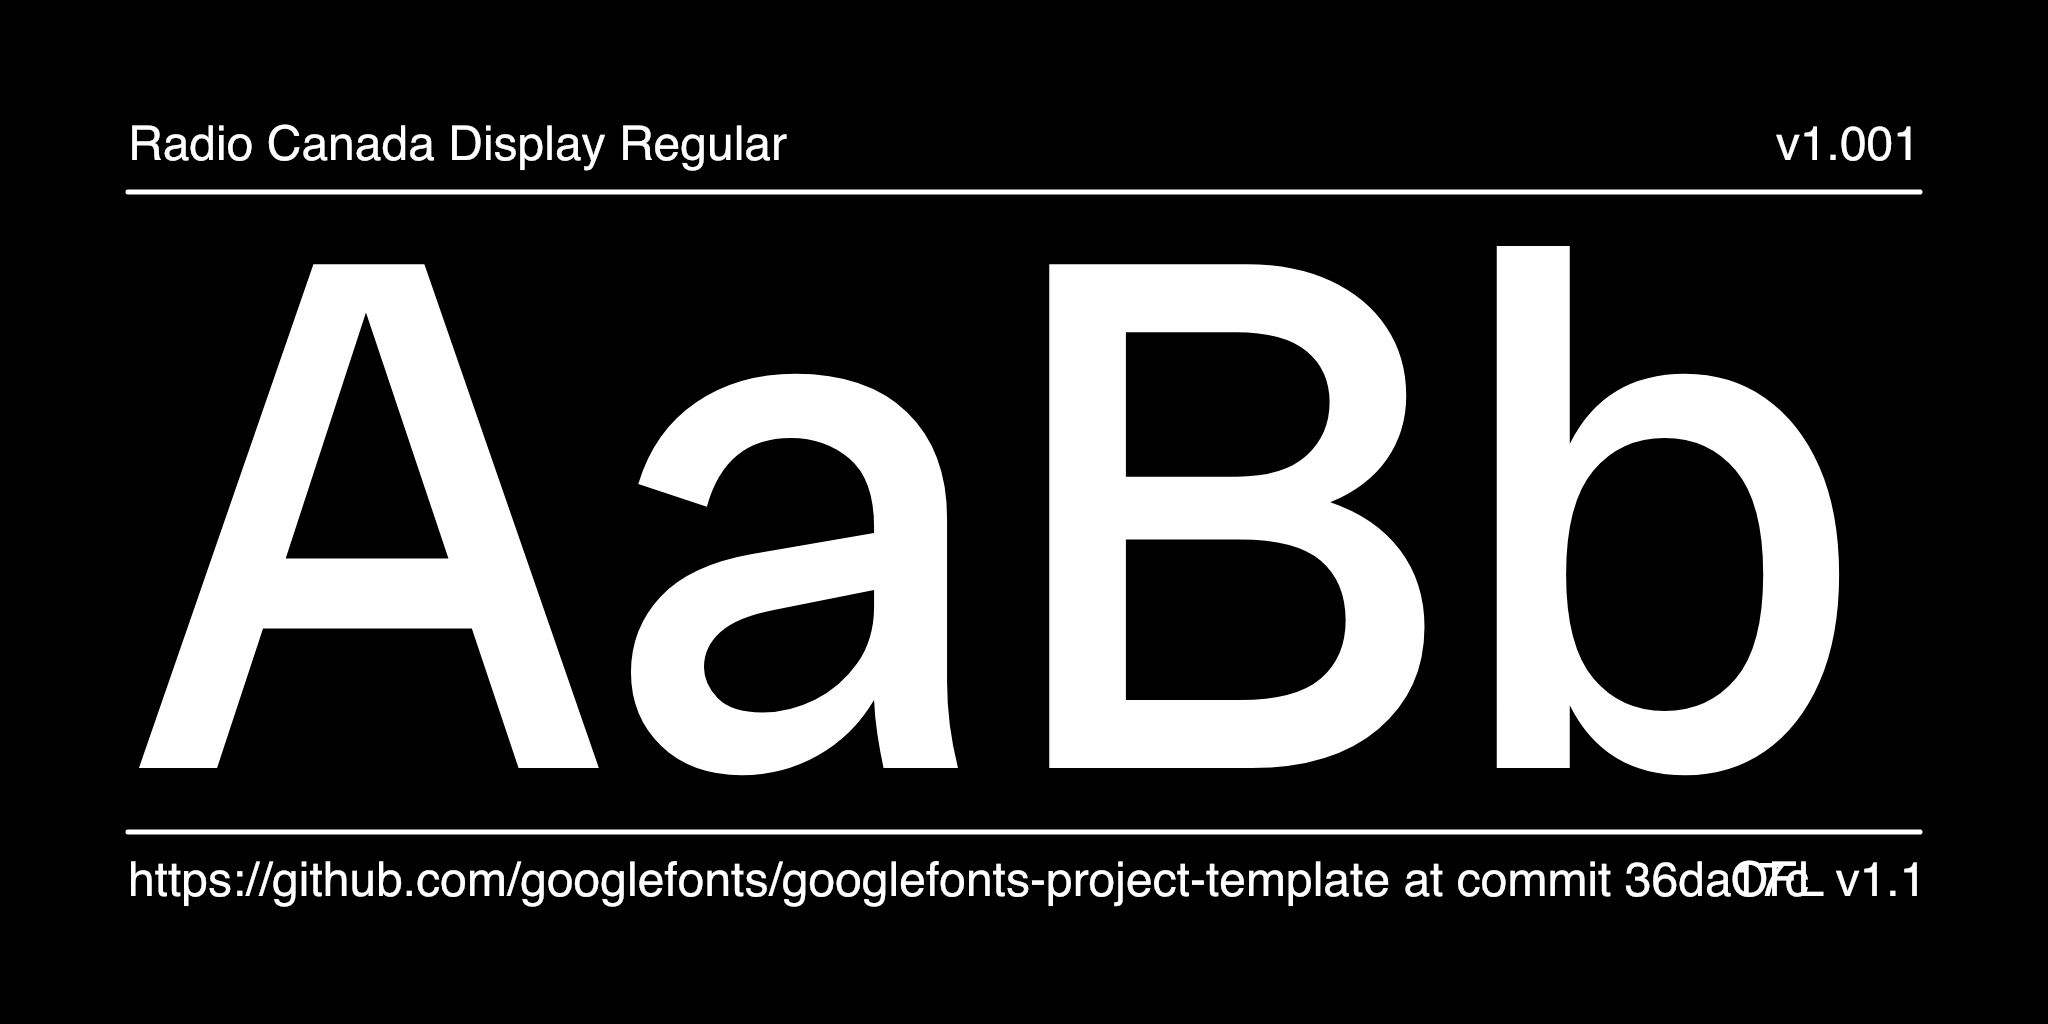
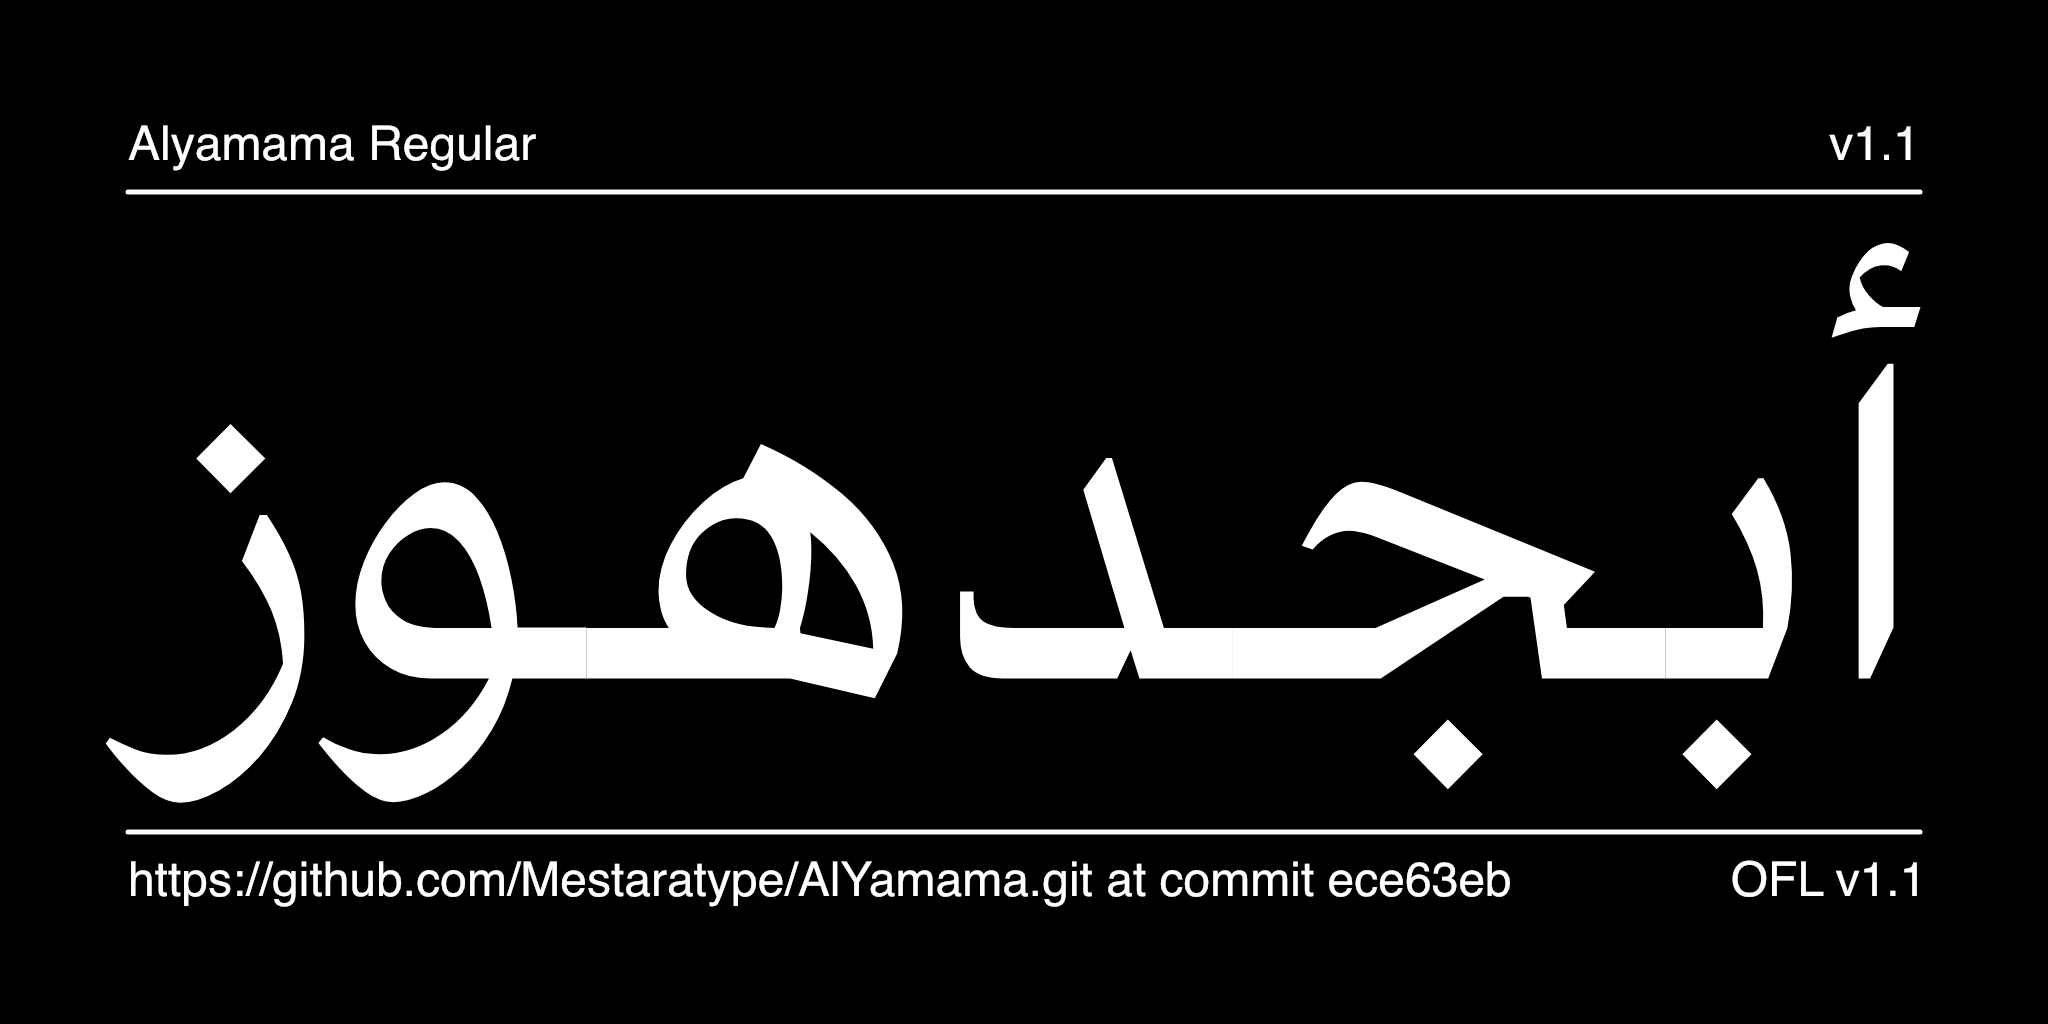
Update documentation and images for Alyamama font

diff --git a/documentation/DESCRIPTION.en_us.html b/documentation/DESCRIPTION.en_us.html
@@ -1,12 +1,10 @@
 <p>
-    Please add a text describing the font here, 100 chracters or more, but no more than 500 words.
-    See https://googlefonts.github.io/gf-guide/description.html for further reference.
-    Please make sure that HTML characters are properly encoded. ('&' becomes &amp; etc.)
-    If unsure, use https://www.freeformatter.com/html-escape.html for formatting. (Use "Escape HTML").
+    Alyamama is a variable Arabic typeface with a classic Naskh design with sharp, simple strokes that provide clarity and refined contrast, making it suitable for advertising, signage, and for both headlines and body text.
 </p>
 <p>
     Could be several paragraphs, also.
 </p>
 <p>
-    To contribute, see <a href="https://github.com/youruseraccount/yourrepository">github.com/youruseraccount/yourrepository</a>.
+    Alyamama project is led by <a href="https://mestara.com">Mestara Type</a> a type foundry specialized in creating and designing Arabic typefaces. Founded by a professional calligrapher and designer, Mestara aims to reflect the beauty, and modernity while respecting traditional calligraphic principles.
+    To contribute, see <a href="https://github.com/MestaraType/AlYamama">github.com/MestaraType/AlYamama</a>.
 </p>

diff --git a/documentation/image0.py b/documentation/image0.py
@@ -2,7 +2,7 @@
 # of your font's git repository. For example, from a Unix terminal:
 # $ git clone my-font
 # $ cd my-font
-# $ python3 documentation/image1.py --output documentation/image1.png
+# $ python3 documentation/image0.py --output documentation/image0.png
 
 # Import moduels from external python packages: https://pypi.org/
 from drawbot_skia.drawbot import *
@@ -15,21 +15,20 @@ import sys
 import argparse
 
 # Constants, these are the main "settings" for the image
-WIDTH, HEIGHT, MARGIN, FRAMES = 2048, 1024, 128, 1
-FONT_PATH = "fonts/ttf/Alyamama-Regular.ttf"
+WIDTH, HEIGHT, MARGIN, FRAMES = 2048, 512, 128, 1
+FONT_PATH = "fonts/ttf/Alyamama-Black.ttf"
 FONT_LICENSE = "OFL v1.1"
 AUXILIARY_FONT = "Helvetica"
 AUXILIARY_FONT_SIZE = 48
 
-BIG_TEXT = "أبجدهوز"
-BIG_TEXT_FONT_SIZE = 520
+BIG_TEXT = "اليمامة"
+BIG_TEXT_FONT_SIZE = 300
 BIG_TEXT_SIDE_MARGIN = WIDTH - MARGIN * 1
-BIG_TEXT_BOTTOM_MARGIN = MARGIN * 2.7
+BIG_TEXT_BOTTOM_MARGIN = MARGIN * 2
 
-GRID_VIEW = False # Toggle this for a grid overlay
 
 # Handel the "--output" flag
-# For example: $ python3 documentation/image1.py --output documentation/image1.png
+# For example: $ python3 documentation/image0.py --output documentation/image0.png
 parser = argparse.ArgumentParser()
 parser.add_argument("--output", metavar="PNG", help="where to write the PNG file")
 args = parser.parse_args()
@@ -44,24 +43,6 @@ MY_URL = subprocess.check_output("git remote get-url origin", shell=True).decode
 MY_HASH = subprocess.check_output("git rev-parse --short HEAD", shell=True).decode()
 FONT_NAME = ttFont["name"].getDebugName(4)
 FONT_VERSION = "v%s" % floatToFixedToStr(ttFont["head"].fontRevision, 16)
-
-
-# Draws a grid
-def grid():
-    stroke(1, 0, 0, 0.75)
-    strokeWidth(2)
-    STEP_X, STEP_Y = 0, 0
-    INCREMENT_X, INCREMENT_Y = MARGIN / 2, MARGIN / 2
-    rect(MARGIN, MARGIN, WIDTH - (MARGIN * 2), HEIGHT - (MARGIN * 2))
-    for x in range(29):
-        polygon((MARGIN + STEP_X, MARGIN), (MARGIN + STEP_X, HEIGHT - MARGIN))
-        STEP_X += INCREMENT_X
-    for y in range(29):
-        polygon((MARGIN, MARGIN + STEP_Y), (WIDTH - MARGIN, MARGIN + STEP_Y))
-        STEP_Y += INCREMENT_Y
-    polygon((WIDTH / 2, 0), (WIDTH / 2, HEIGHT))
-    polygon((0, HEIGHT / 2), (WIDTH, HEIGHT / 2))
-
 
 # Remap input range to VF axis range
 # This is useful for animation
@@ -78,10 +59,6 @@ def draw_background():
     newPage(WIDTH, HEIGHT)
     fill(0)
     rect(-2, -2, WIDTH + 2, HEIGHT + 2)
-    if GRID_VIEW:
-        grid()
-    else:
-        pass
 
 
 # Draw main text
@@ -94,44 +71,12 @@ def draw_main_text():
     # TODO: This should be done automatically when drawbot-skia
     # has support for textBox() and FormattedString
     #text(BIG_TEXT, ((WIDTH / 2) - MARGIN * 4.75, (HEIGHT / 2) - MARGIN * 2.5))
-    # text(BIG_TEXT,(WIDTH  - MARGIN, (HEIGHT / 2)))
     text(BIG_TEXT, (BIG_TEXT_SIDE_MARGIN, BIG_TEXT_BOTTOM_MARGIN))
-
-
-# Divider lines
-def draw_divider_lines():
-    stroke(1)
-    strokeWidth(5)
-    lineCap("round")
-    line((MARGIN, HEIGHT - (MARGIN * 1.5)), (WIDTH - MARGIN, HEIGHT - (MARGIN * 1.5)))
-    line((MARGIN, MARGIN + (MARGIN / 2)), (WIDTH - MARGIN, MARGIN + (MARGIN / 2)))
-    stroke(None)
-
-
-# Draw text describing the font and it's git status & repo URL
-def draw_auxiliary_text():
-    # Setup
-    font(AUXILIARY_FONT)
-    fontSize(AUXILIARY_FONT_SIZE)
-    POS_TOP_LEFT = (MARGIN, HEIGHT - MARGIN * 1.25)
-    POS_TOP_RIGHT = (WIDTH - MARGIN, HEIGHT - MARGIN * 1.25)
-    POS_BOTTOM_LEFT = (MARGIN, MARGIN)
-    POS_BOTTOM_RIGHT = (WIDTH - MARGIN * 0.95, MARGIN)
-    URL_AND_HASH = MY_URL + "at commit " + MY_HASH
-    URL_AND_HASH = URL_AND_HASH.replace("\n", " ")
-    # Draw Text
-    text(FONT_NAME, POS_TOP_LEFT, align="left")
-    text(FONT_VERSION, POS_TOP_RIGHT, align="right")
-    text(URL_AND_HASH, POS_BOTTOM_LEFT, align="left")
-    text(FONT_LICENSE, POS_BOTTOM_RIGHT, align="right")
-
 
 # Build and save the image
 if __name__ == "__main__":
     draw_background()
     draw_main_text()
-    draw_divider_lines()
-    draw_auxiliary_text()
     # Save output, using the "--output" flag location
     saveImage(args.output)
     # Print done in the terminal

diff --git a/documentation/image2.py b/documentation/image2.py
@@ -16,17 +16,17 @@ import argparse
 
 # Constants, these are the main "settings" for the image
 WIDTH, HEIGHT, MARGIN, FRAMES = 2048, 1024, 128, 1
-FONT_PATH = "fonts/ttf/RadioCanadaDisplay-Regular.ttf"
+FONT_PATH = "fonts/ttf/Alyamama-Regular.ttf"
 FONT_LICENSE = "OFL v1.1"
 AUXILIARY_FONT = "Helvetica"
 AUXILIARY_FONT_SIZE = 48
 
-LINE_ONE = "ABCDEFGHIJKLMNOPQ"
-LINE_TWO = "RSTUVWXYZ123456789"
-LINE_THREE = "abcdefghijklmnopqrstu"
-LINE_FOUR = "vwxyz,.;:!@#$%^&*(){}[]"
-BIG_TEXT_FONT_SIZE = 160
-BIG_TEXT_SIDE_MARGIN = MARGIN * 1
+LINE_ONE   = "اأبتثجحخدذرزسشص"
+LINE_TWO   = "ضطظعغفقكلمنهو١٢٣"
+LINE_THREE = "٤٥٦٧٨٩٠ىيئءؤإآةى"
+LINE_FOUR  = "ا.;:!@#$%^&*(){}[]"
+BIG_TEXT_FONT_SIZE = 150
+BIG_TEXT_SIDE_MARGIN = WIDTH - MARGIN * 1
 BIG_TEXT_BOTTOM_MARGIN = MARGIN * 5.45
 
 GRID_VIEW = False # Toggle this for a grid overlay

diff --git a/README.md b/README.md
@@ -1,72 +1,42 @@
-## Setting up your font
+# My Font
 
-### New repositories
+[![][Fontspector]](https://mestaratype.github.io/AlYamama/fontspector/fontspector-report.html)
+[![][OpenType]](https://mestaratype.github.io/AlYamama/fontspector/fontspector-report.html)
+[![][Universal]](https://mestaratype.github.io/AlYamama/fontspector/fontspector-report.html)
+[![][Google Fonts]](https://mestaratype.github.io/AlYamama/fontspector/fontspector-report.html)
+[![][Glyphset]](https://mestaratype.github.io/AlYamama/fontspector/fontspector-report.html)
 
-1. Hit the green button above ("Use this template") to create your own repository.
+[Fontspector]: https://img.shields.io/endpoint?url=https%3A%2F%2Fmestaratype.github.io%2FAlYamama%2Fbadges%2FFontspectorQA.json
+[OpenType]: https://img.shields.io/endpoint?url=https%3A%2F%2Fmestaratype.github.io%2FAlYamama%2Fbadges%2FOpentypeSpecificationChecks.json
+[Universal]: https://img.shields.io/endpoint?url=https%3A%2F%2Fmestaratype.github.io%2FAlYamama%2Fbadges%2FUniversalProfileChecks.json
+[Google Fonts]: https://img.shields.io/endpoint?url=https%3A%2F%2Fmestaratype.github.io%2FAlYamama%2Fbadges%2FFontFileChecks.json
+[Outline Correctness]: https://img.shields.io/endpoint?url=https%3A%2F%2Fmestaratype.github.io%2FAlYamama%2Fbadges%2FOutlineCorrectnessChecks.json
+[Glyphset]: https://img.shields.io/endpoint?url=https%3A%2F%2Fmestaratype.github.io%2FAlYamama%2Fbadges%2FGlyphsetChecks.json
 
-2. Clone the repository, and replace the font sources in the `sources` directory with your own font sources. These sources may be either in Glyphs format or UFO/Designspace formats.\
-   \
-   Unlike many open source distributors, Google Fonts is **curated**. Fonts shipped to the platform have to match the [Google Fonts Specifications](https://github.com/googlefonts/gf-docs/tree/main/Spec). Please read them carefully.\
-   \
-   _(The sample font provided in this template is [Radio Canada](https://github.com/googlefonts/radiocanadadisplay/) by Charles Daoud, Etienne Aubert Bonn, Alexandre Saumier Demers and contributors.)_
+**Alyamama**, is a variable Arabic typeface with a classic Naskh design with sharp, simple strokes that provide clarity and refined contrast, making it suitable for advertising, signage, and for both headlines and body text.
 
-3. Then reference the sources in the file `sources/config.yaml`, as well as making any other changes you would like to make based on the instructions in the [Google Fonts Builder documentation](https://github.com/googlefonts/gftools/blob/main/Lib/gftools/builder/__init__.py).
+The Latin glyphs in **Alyamama** are based on the open-source  typeface [**UNAL Ancízar**](https://github.com/UNAL-OMD/UNAL-Ancizar).  
 
-4. Add yourself to the `AUTHORS.txt` and `CONTRIBUTORS.txt` files.
 
-5. Fill out `documentation/DESCRIPTION.en_us.html` with a description about your font.
+## Design Concept
 
-6. Rewrite this Readme file according to the recommendations in the [Google Fonts Guide](https://googlefonts.github.io/gf-guide/readmefile.html).
+ **Alyamama** typeface is a Naskh-style advertising font similar to (e.g., Buotros Ads, Muna, Al Mohannad Bold, Sakkal Majalla). However, Alyamama sets itself apart with a more streamlined and geometric structure, offering improved legibility and performance in modern digital environments.
 
-7. Add and commit these files to git.
-
-8. **At the command line, run `make customize` to ensure that all the paths and URLs in your project are correct**. This will also push your changes to GitHub.
-
-9. **Set up your GitHub pages site**: go to Settings > Pages and ensure that the "Source" drop-down is set to "Deploy from a Branch". Ensure that the "Branch" is set to `gh-pages`. If this branch is not available, check that the "Build font and specimen" action in the "Actions" tab has completed; if it completed successfully, then try again - `gh-pages` should now be an option.
-
-10. If Github Actions has successfully built the family, you will find the font binaries in the Actions tab. The official Github Actions documentation provides further [information](https://docs.github.com/en/actions/managing-workflow-runs/downloading-workflow-artifacts).
-
-### Updating a repository
-
-1. To update your font repository to bring in the latest best-practices from the Google Fonts Project Template, run `make update-project-template` from the command line. This requires the `node` Javascript engine to be installed; if you don't have that already, [follow these instructions](https://nodejs.org/en/download/package-manager#macos) to install on your platform.
-
-2. To update the Python build chain which builds your fonts, run `make update` and `git add`/`git commit` the new `requirements.txt`.
-
-## More things to do
-
-- `CustomFilter_GF_Latin_All.plist` in `sources` is practical if you use GlyphsApp, you can remove it otherwise. Placed in the same directory as the your `.glyphs` file, it will allow Glyphs to display a filter list for all GF Latin glyphsets in app. To make sure your font supports the minimal set required by Google Fonts, look at the `GF_Latin_Core` filter list. Find other glyphsets and list formats for different software in [GF Glyphsets repository](https://github.com/googlefonts/glyphsets/tree/main/GF_glyphsets).
-
-- Once you are happy with your font, add promotional assets in the documentation directory. Make it different from the pic you use in this README. You can get inspired by existing tweet @googlefonts like: https://twitter.com/googlefonts/status/1415562928657416192.
-
-- Google Fonts uses Github Releases to manage font families. If you feel your font project has hit a milestone, you must create a new release for it. In order to do this, go to the releases page and hit the "Draft a new release button". You must provide a tag number and title which can only be a decimal number e.g 0.100, 1.000 etc. For the body text, mention what has changed since the last release. Once you are done, hit the "Publish release" button. Here is an example which fulfills the requirements, https://github.com/m4rc1e/test-ufr-family/releases/tag/2.019. For more info regarding Github release, please see the official Github Release [documentation](https://docs.github.com/en/repositories/releasing-projects-on-github/managing-releases-in-a-repository). **Please note that Github Actions must be able to build the fonts before you can make a release. Once you have made a release, the fonts and tests assets will be attached to the release automatically. This may take a while since the fonts and tests will be built from scratch so please be patient.**
+- **Variable font**: Alyamama supports infinite weight variations, allowing seamless interpolation between thin and bold styles.
+- **Simplified and geometric**: Designed with minimal yet refined outlines that speed up text rendering and improve readability.
+- **Optically adjusted spacing**: Careful attention to spacing ensures excellent performance in both large display settings and small sizes.
+- **Calligraphic integrity**: Each glyph is carefully referenced from the classical Naskh style, preserving the heritage of Arabic calligraphy.
+- **Wide forms**: Certain letters such as *مـ، هـ، ط* have been expanded for clarity at small sizes.
 
 ---
 
-# My Font
-
-[![][Fontspector]](https://googlefonts.github.io/googlefonts-project-template/fontspector/fontspector-report.html)
-[![][OpenType]](https://googlefonts.github.io/googlefonts-project-template/fontspector/fontspector-report.html)
-[![][Universal]](https://googlefonts.github.io/googlefonts-project-template/fontspector/fontspector-report.html)
-[![][Google Fonts]](https://googlefonts.github.io/googlefonts-project-template/fontspector/fontspector-report.html)
-[![][Glyphset]](https://googlefonts.github.io/googlefonts-project-template/fontspector/fontspector-report.html)
-
-[Fontspector]: https://img.shields.io/endpoint?url=https%3A%2F%2Fgooglefonts.github.io%2Fgooglefonts-project-template%2Fbadges%2FFontspectorQA.json
-[OpenType]: https://img.shields.io/endpoint?url=https%3A%2F%2Fgooglefonts.github.io%2Fgooglefonts-project-template%2Fbadges%2FOpentypeSpecificationChecks.json
-[Universal]: https://img.shields.io/endpoint?url=https%3A%2F%2Fgooglefonts.github.io%2Fgooglefonts-project-template%2Fbadges%2FUniversalProfileChecks.json
-[Google Fonts]: https://img.shields.io/endpoint?url=https%3A%2F%2Fgooglefonts.github.io%2Fgooglefonts-project-template%2Fbadges%2FFontFileChecks.json
-[Outline Correctness]: https://img.shields.io/endpoint?url=https%3A%2F%2Fgooglefonts.github.io%2Fgooglefonts-project-template%2Fbadges%2FOutlineCorrectnessChecks.json
-[Glyphset]: https://img.shields.io/endpoint?url=https%3A%2F%2Fgooglefonts.github.io%2Fgooglefonts-project-template%2Fbadges%2FGlyphsetChecks.json
-
-Description of your font goes here. We recommend to start with a very short presentation line (the kind you would use on twitter to present your project for example), and then add as much details as necesary :-) Origin of the project, idea of usage, concept of creation… but also number of masters, axes, character sets, etc.
-
-Don't hesitate to create images!
 
 ![Sample Image](documentation/image1.png)
 ![Sample Image](documentation/image2.png)
 
 ## About
 
-Description of you and/or organisation goes here.
+**Mestara** is a type foundry specialized in creating and designing Arabic typefaces. Founded by a professional calligrapher and designer, Mestara aims to reflect the beauty, and modernity while respecting traditional calligraphic principles. [Visit our website](https://mestara.com)
 
 ## Building
 
@@ -75,21 +45,10 @@ Fonts are built automatically by GitHub Actions - take a look in the "Actions" t
 If you want to build fonts manually on your own computer:
 
 - `make build` will produce font files.
-- `make test` will run [FontBakery](https://github.com/googlefonts/fontbakery)'s quality assurance tests.
+- `make test` will run [Fontspector](https://github.com/fonttools/fontspector)'s quality assurance tests.
 - `make proof` will generate HTML proof files.
 
-The proof files and QA tests are also available automatically via GitHub Actions - look at `https://yourname.github.io/your-font-repository-name`.
-
-## Changelog
-
-When you update your font (new version or new release), please report all notable changes here, with a date.
-[Font Versioning](https://github.com/googlefonts/gf-docs/tree/main/Spec#font-versioning) is based on semver.
-Changelog example:
-
-**26 May 2021. Version 2.13**
-
-- MAJOR Font turned to a variable font.
-- SIGNIFICANT New Stylistic sets added.
+The proof files and QA tests are also available automatically via GitHub Actions - look at `https://mestaratype.github.io/AlYamama/`.
 
 ## License
 
